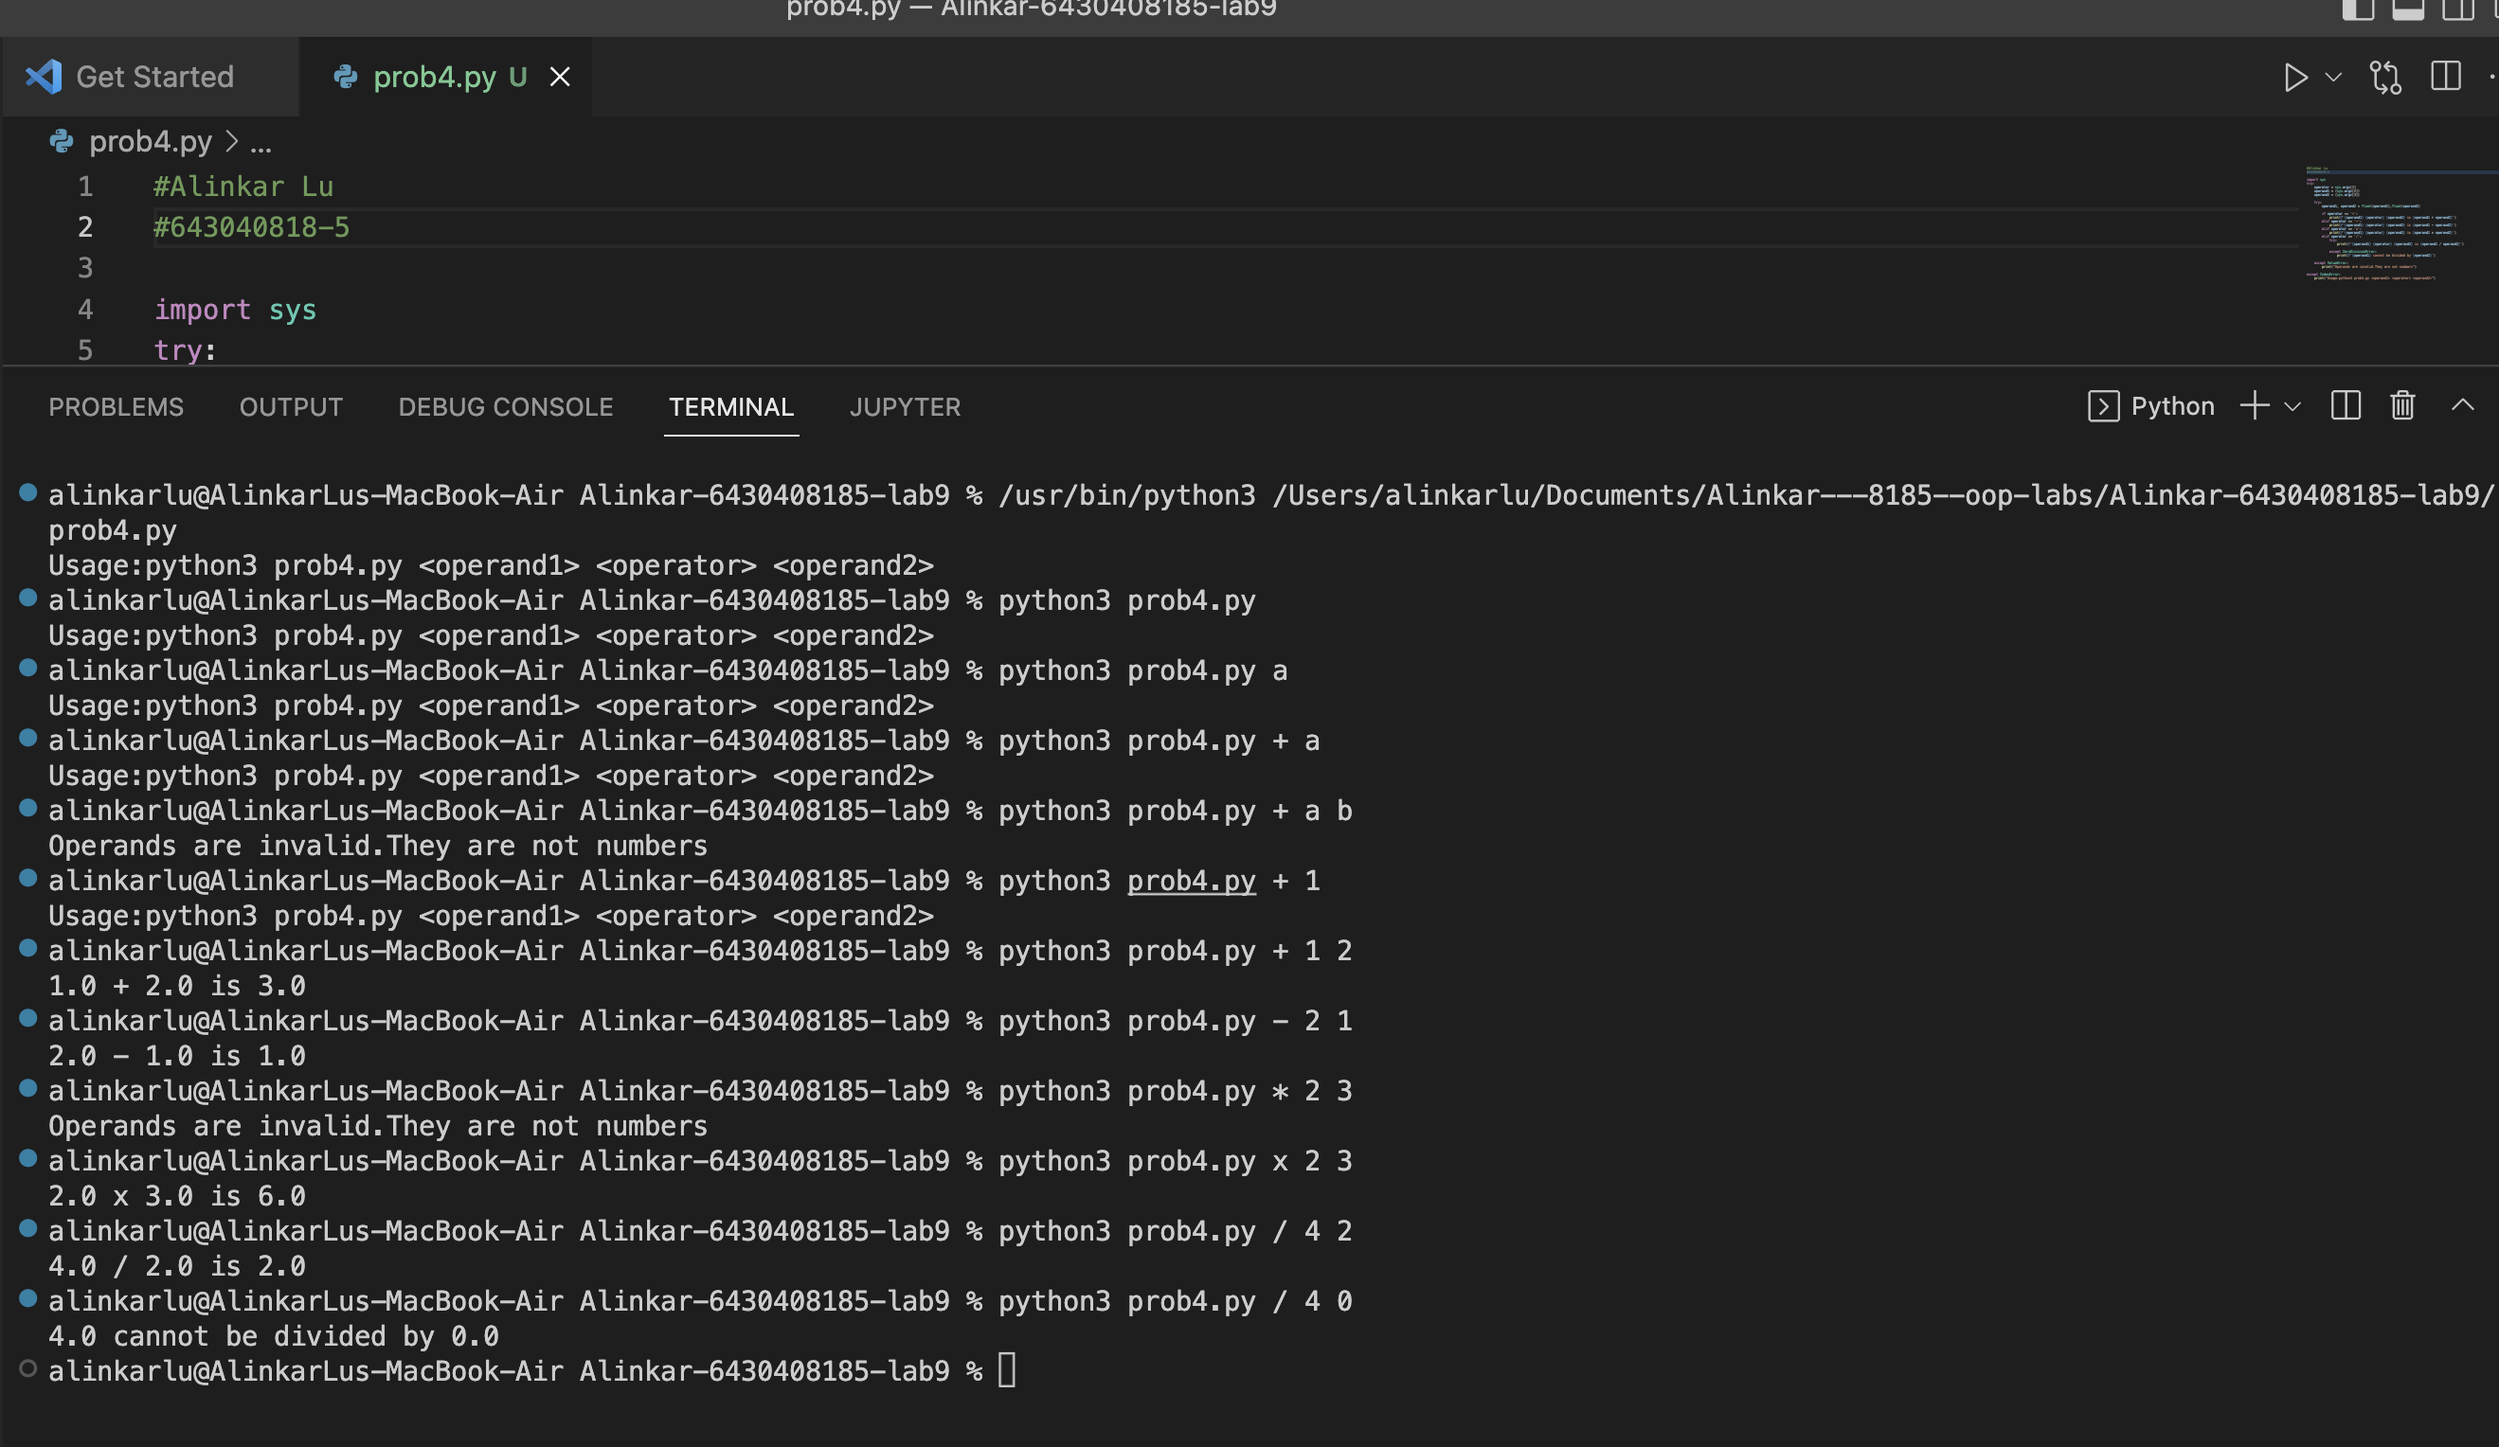
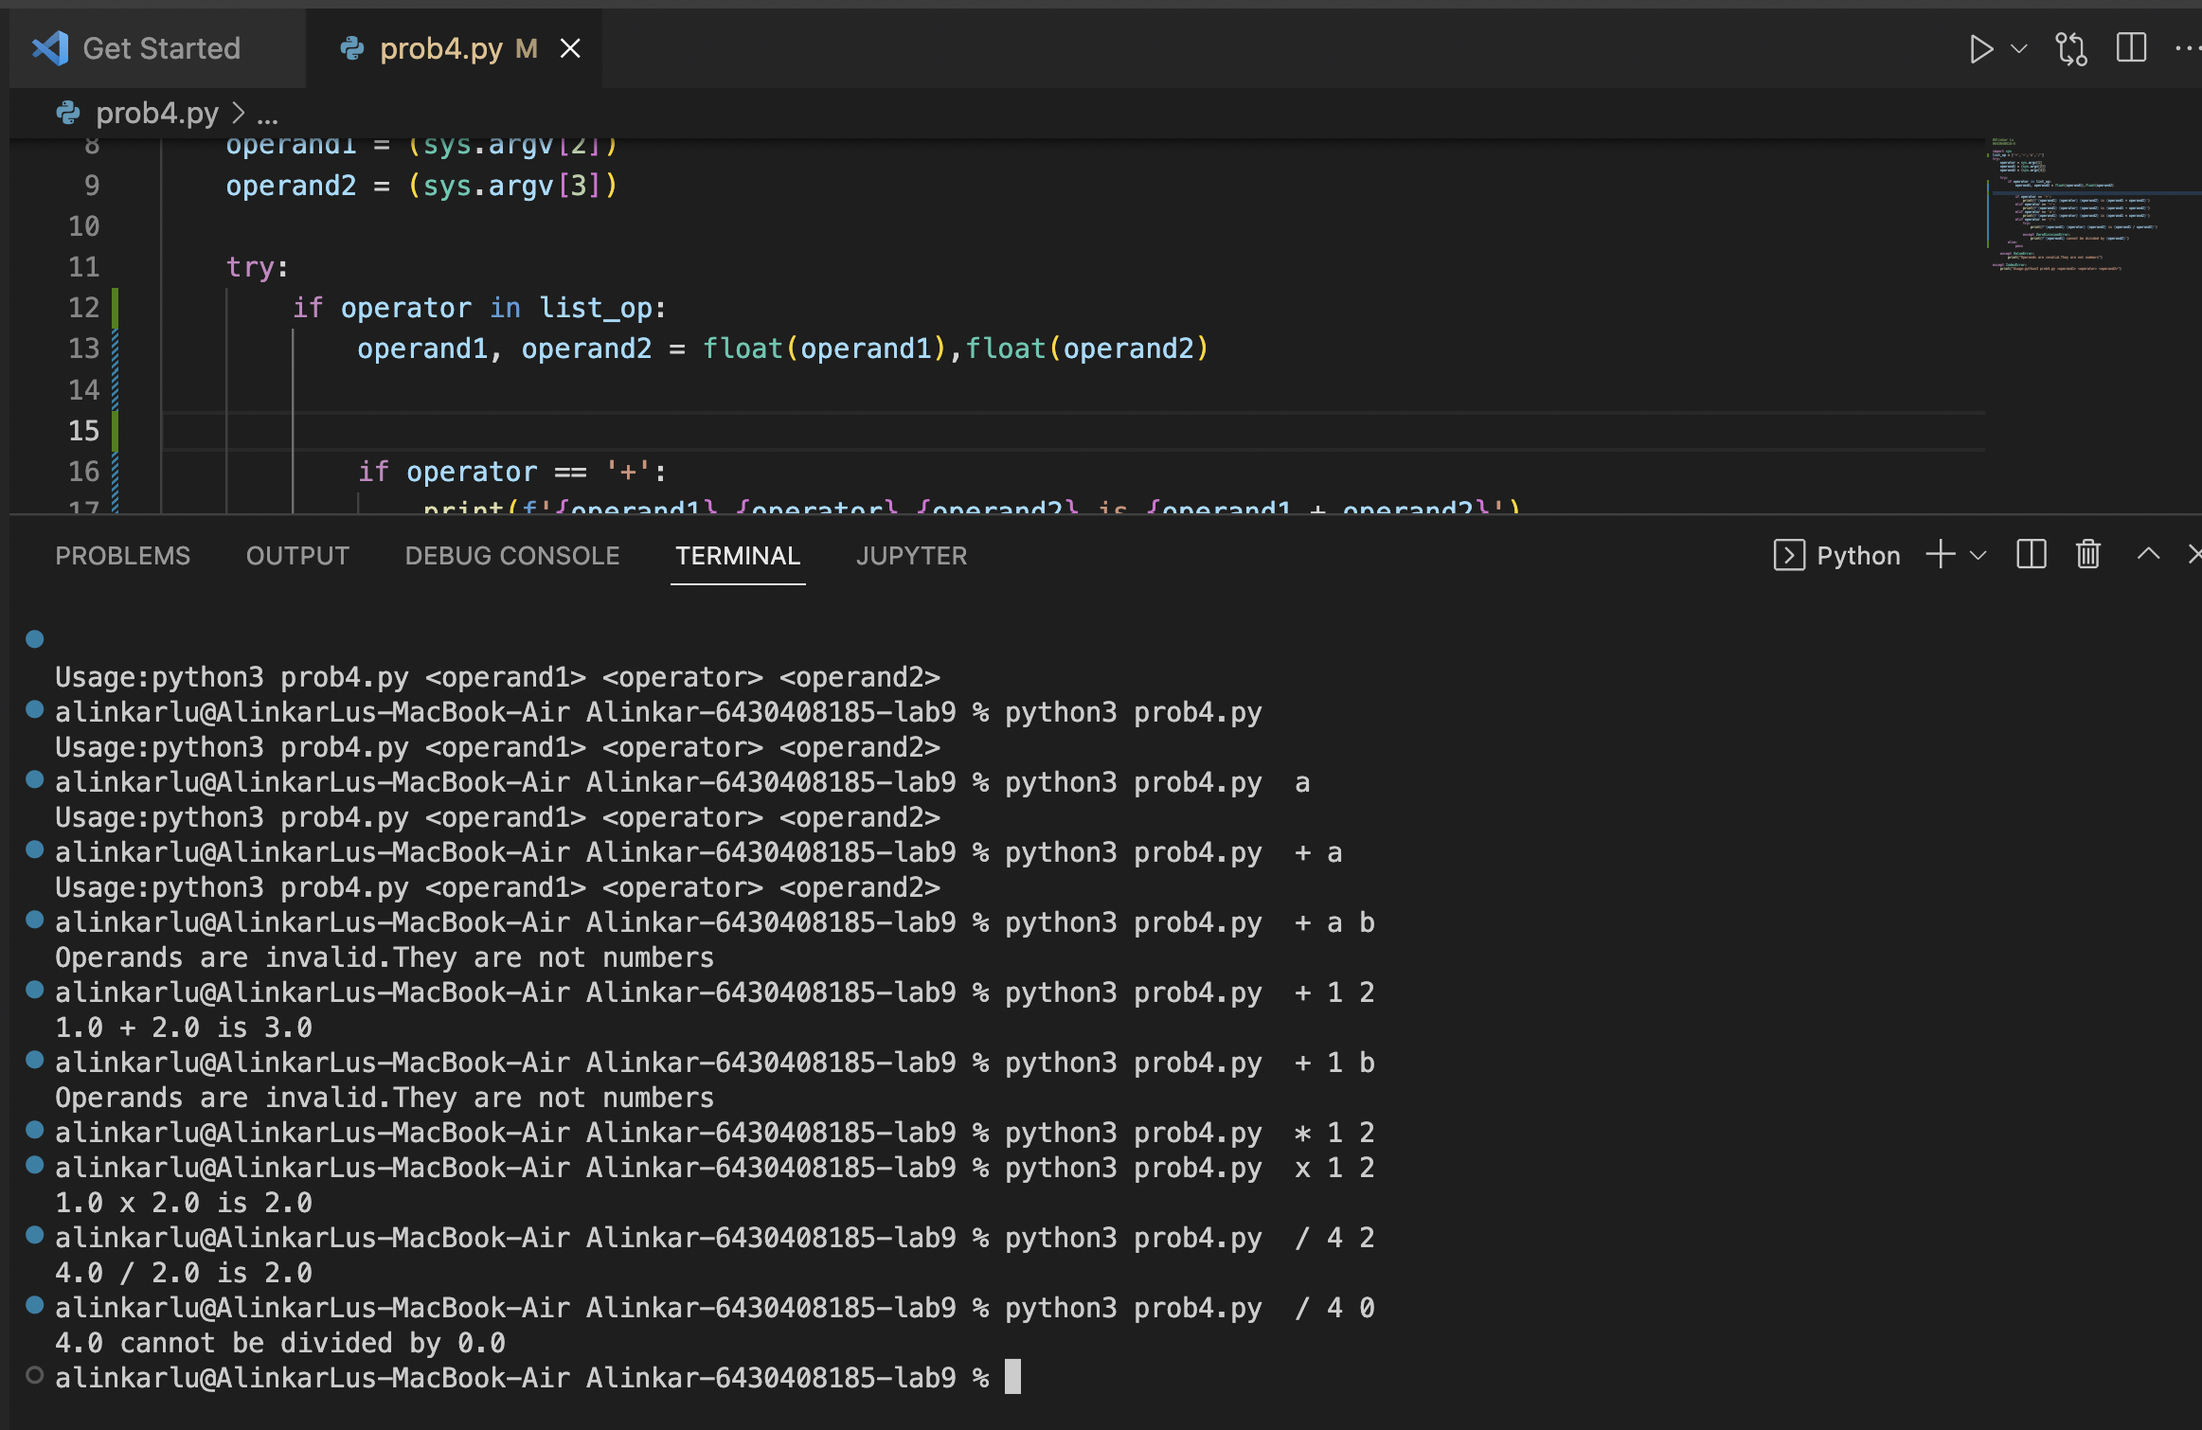
Alinkar-6430408185-lab9

diff --git a/Alinkar-6430408185-lab9/prob4.py b/Alinkar-6430408185-lab9/prob4.py
@@ -2,26 +2,31 @@
 #643040818-5
 
 import sys
+list_op = ['+','-','x','/']
 try:
     operator = sys.argv[1]
     operand1 = (sys.argv[2])
     operand2 = (sys.argv[3])
     
     try:
-        operand1, operand2 = float(operand1),float(operand2)
-
-        if operator == '+':
-            print(f'{operand1} {operator} {operand2} is {operand1 + operand2}')
-        elif operator == '-':
-            print(f'{operand1} {operator} {operand2} is {operand1 - operand2}')
-        elif operator == 'x':
-            print(f'{operand1} {operator} {operand2} is {operand1 * operand2}')
-        elif operator == '/':
-            try:
-                print(f'{operand1} {operator} {operand2} is {operand1 / operand2}')
-                
-            except ZeroDivisionError:
-                print(f'{operand1} cannot be divided by {operand2}')
+        if operator in list_op:
+            operand1, operand2 = float(operand1),float(operand2)
+        
+        
+            if operator == '+':
+                print(f'{operand1} {operator} {operand2} is {operand1 + operand2}')
+            elif operator == '-':
+                print(f'{operand1} {operator} {operand2} is {operand1 - operand2}')
+            elif operator == 'x':
+                print(f'{operand1} {operator} {operand2} is {operand1 * operand2}')
+            elif operator == '/':
+                try:
+                    print(f'{operand1} {operator} {operand2} is {operand1 / operand2}')
+                    
+                except ZeroDivisionError:
+                    print(f'{operand1} cannot be divided by {operand2}')
+        else:
+            pass
     
     except ValueError:
         print("Operands are invalid.They are not numbers")  
